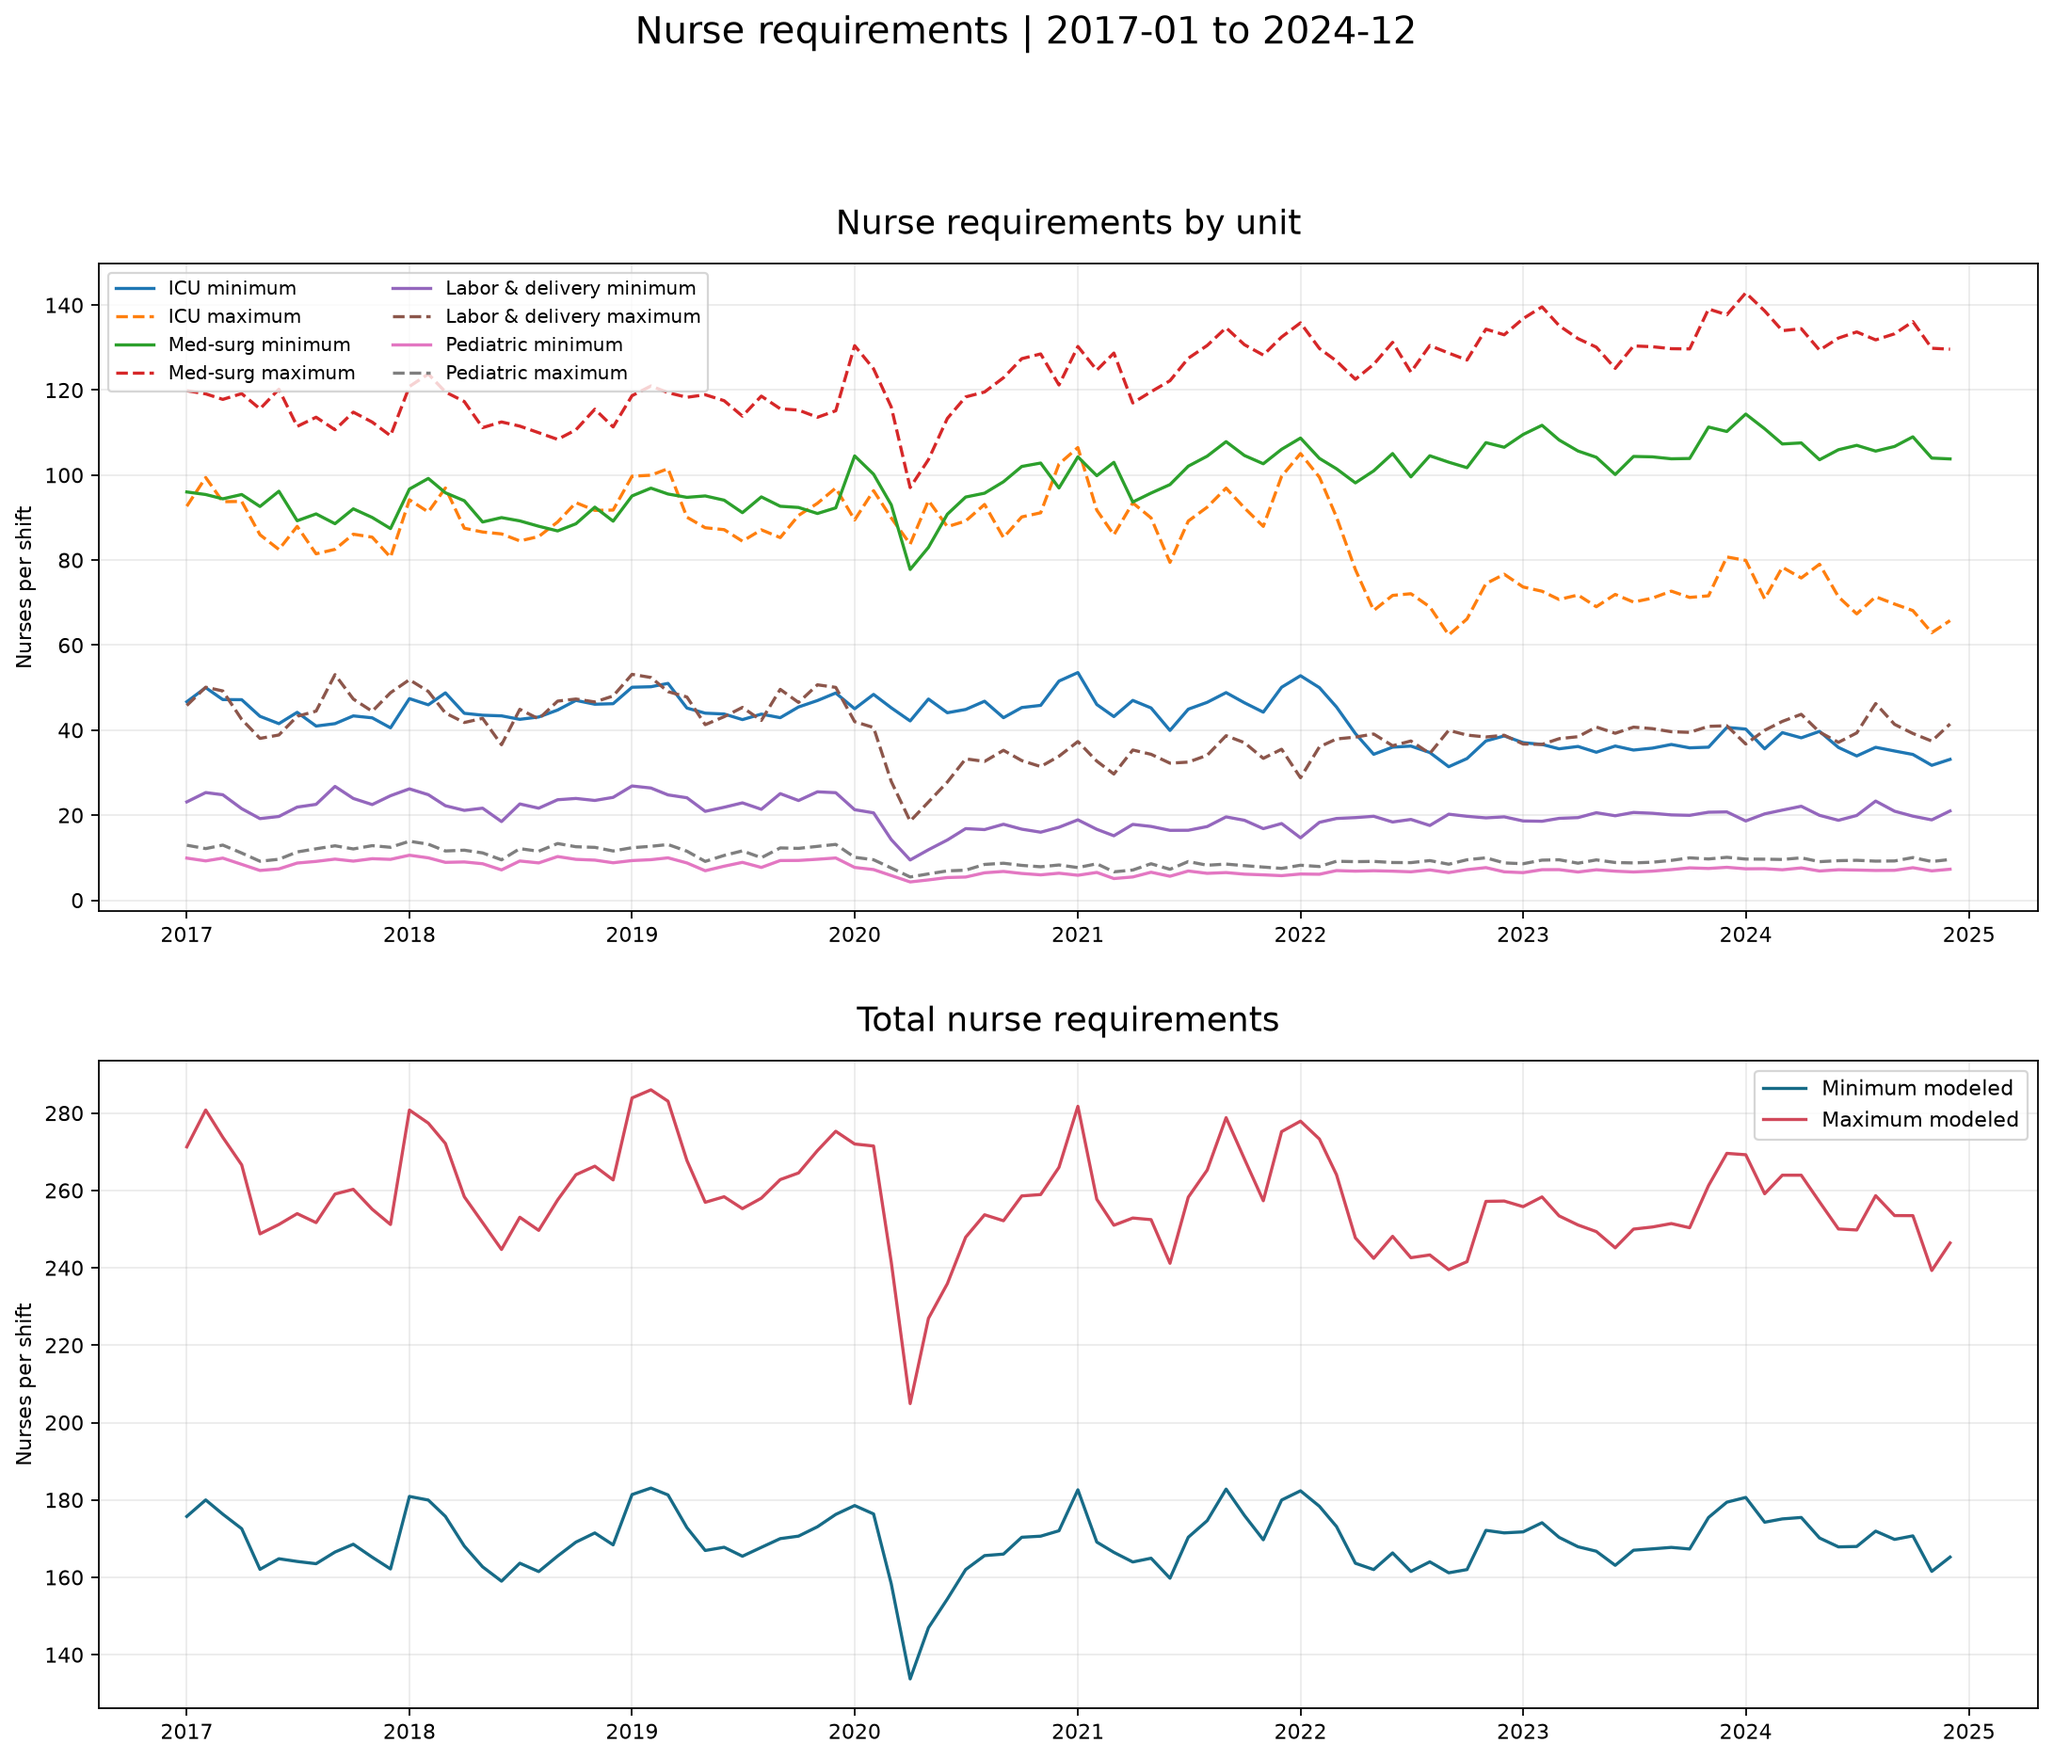
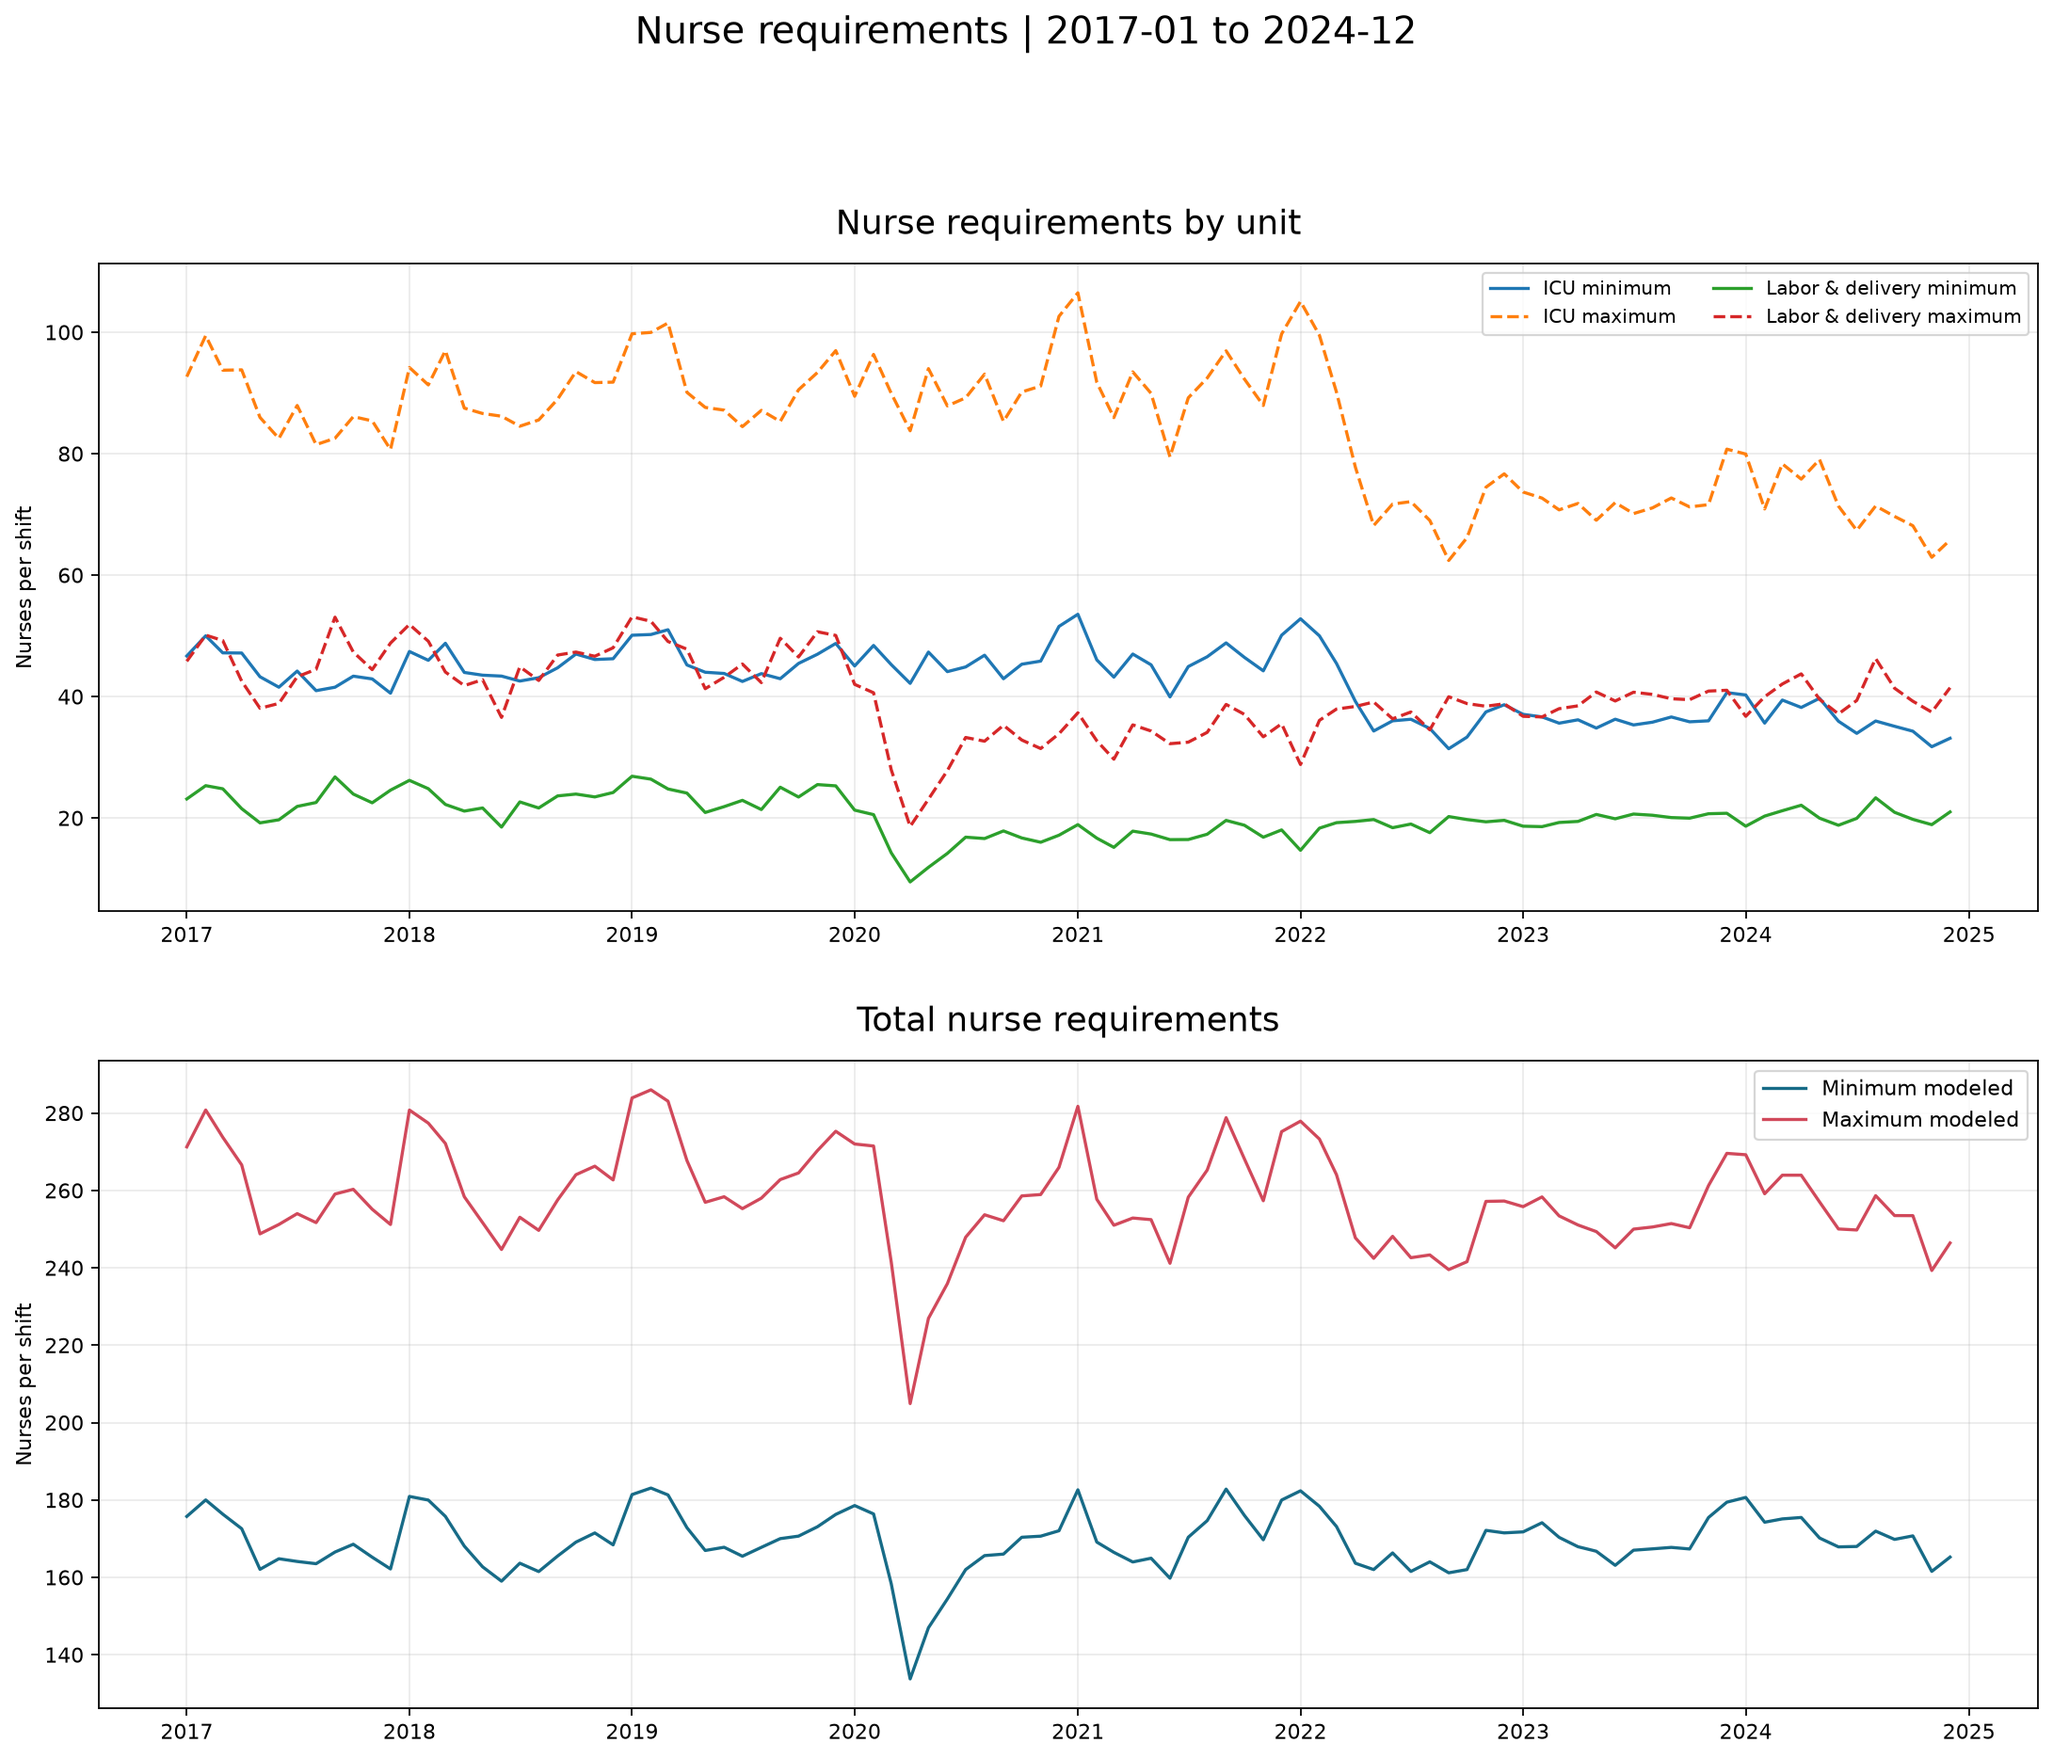
updated figures

diff --git a/notebooks/hospital_current_state.py b/notebooks/hospital_current_state.py
@@ -17,6 +17,32 @@ def _():
 
 
 @app.cell
+def _(mo):
+    mo.md(
+        "\n".join(
+            [
+                "# Hospital Operations",
+                "",
+                "**Historical current-state overview | 2017-2024**",
+                "",
+                "A retrospective view of bed occupancy, modeled nurse requirements,",
+                "estimated environmental services (EVS) cleaning workload, and synthetic",
+                "appointment patterns across a 905-bed hospital model based on VCU Medical Center.",
+                "",
+                "This view provides operating context for the planned bed-turnover simulation;",
+                "it does not report live hospital conditions or measure the impact of the EVS alert intervention.",
+                "",
+                "**Data note:** Source inputs are monthly Virginia state aggregates. Daily rows are",
+                "reconstructed estimates, not patient-level observations. Nurse requirements are",
+                "ratio-modeled, cleaning workload is estimated, and appointment patterns are synthetic.",
+                "The charts should not be interpreted as observed daily or hourly hospital performance.",
+            ]
+        )
+    )
+    return
+
+
+@app.cell
 def _(Path, pd):
     project_root = next(
         (
@@ -456,7 +482,7 @@ def _(appointments, end_month_filter, mo, nurse_unit_filter, operational, output
         axis.xaxis.set_major_formatter(DateFormatter("%Y"))
         axis.tick_params(axis="x", labelbottom=True)
 
-    evs_figure, evs_axis = plt.subplots(figsize=(10, 5))
+    evs_figure, evs_axis = plt.subplots(figsize=(14, 5))
     evs_axis.plot(chart_monthly_view.index, chart_monthly_view["occupied_clean_hours"], label="Occupied-room cleaning", marker=chart_marker)
     evs_axis.plot(chart_monthly_view.index, chart_monthly_view["discharge_clean_hours"], label="Discharge cleaning", marker=chart_marker)
     evs_axis.plot(chart_monthly_view.index, chart_monthly_view["mean_evs_hours"], label="Total estimated EVS workload", linewidth=2, marker=chart_marker)
@@ -473,7 +499,7 @@ def _(appointments, end_month_filter, mo, nurse_unit_filter, operational, output
         selected_appointments.groupby("arrival_hour").size().reindex(range(24), fill_value=0)
         / chart_data["date"].nunique()
     )
-    appointments_figure, appointments_axis = plt.subplots(figsize=(10, 5))
+    appointments_figure, appointments_axis = plt.subplots(figsize=(14, 5))
     appointments_axis.bar(range(24), average_arrivals_by_hour, color="#E07A5F")
     appointments_axis.set_title(f"Synthetic appointments by hour | {chart_period_label}")
     appointments_axis.set_xlabel("Hour of day")
